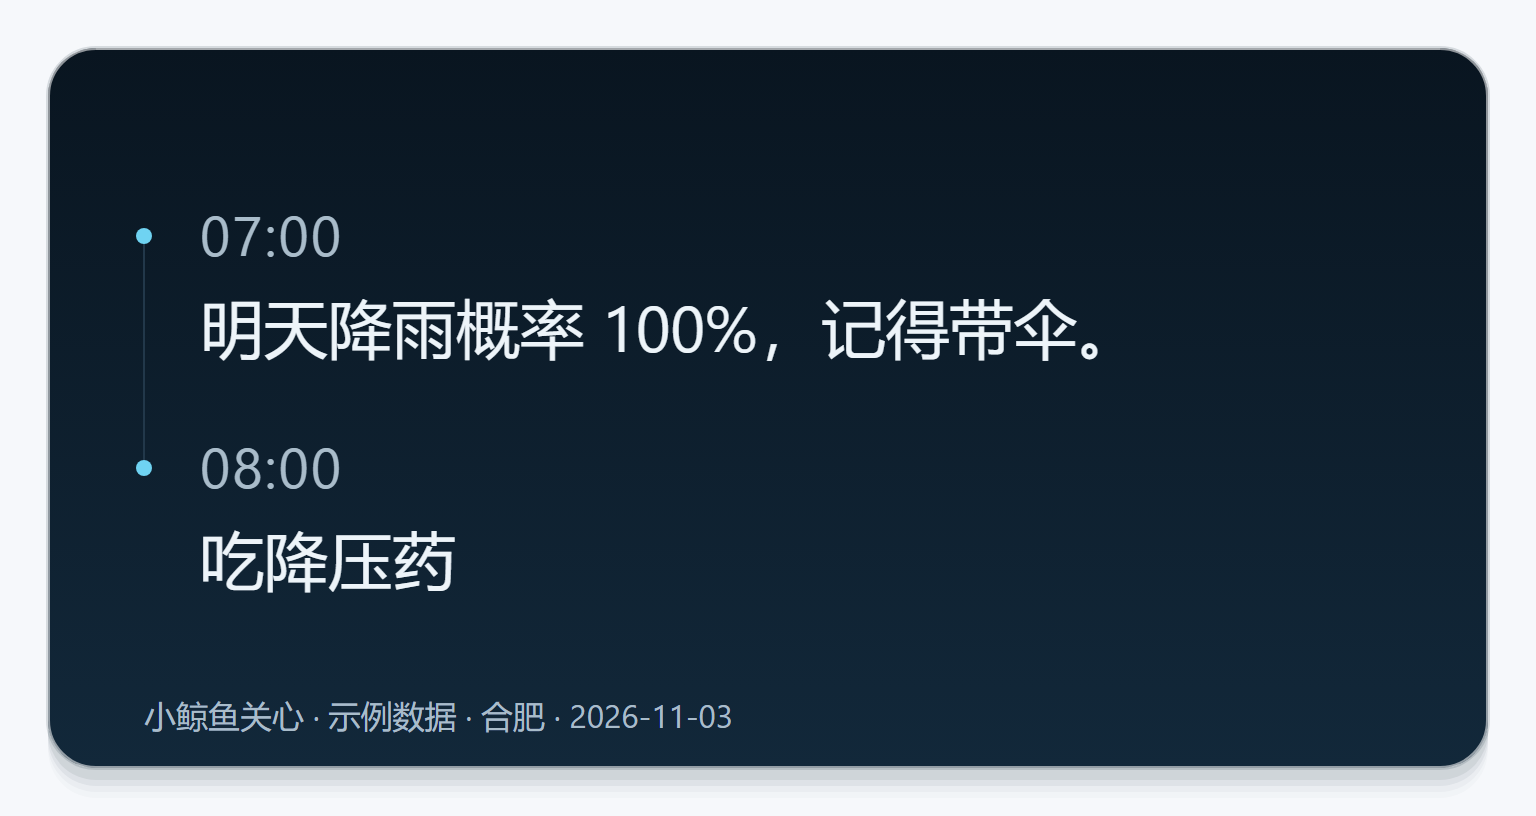
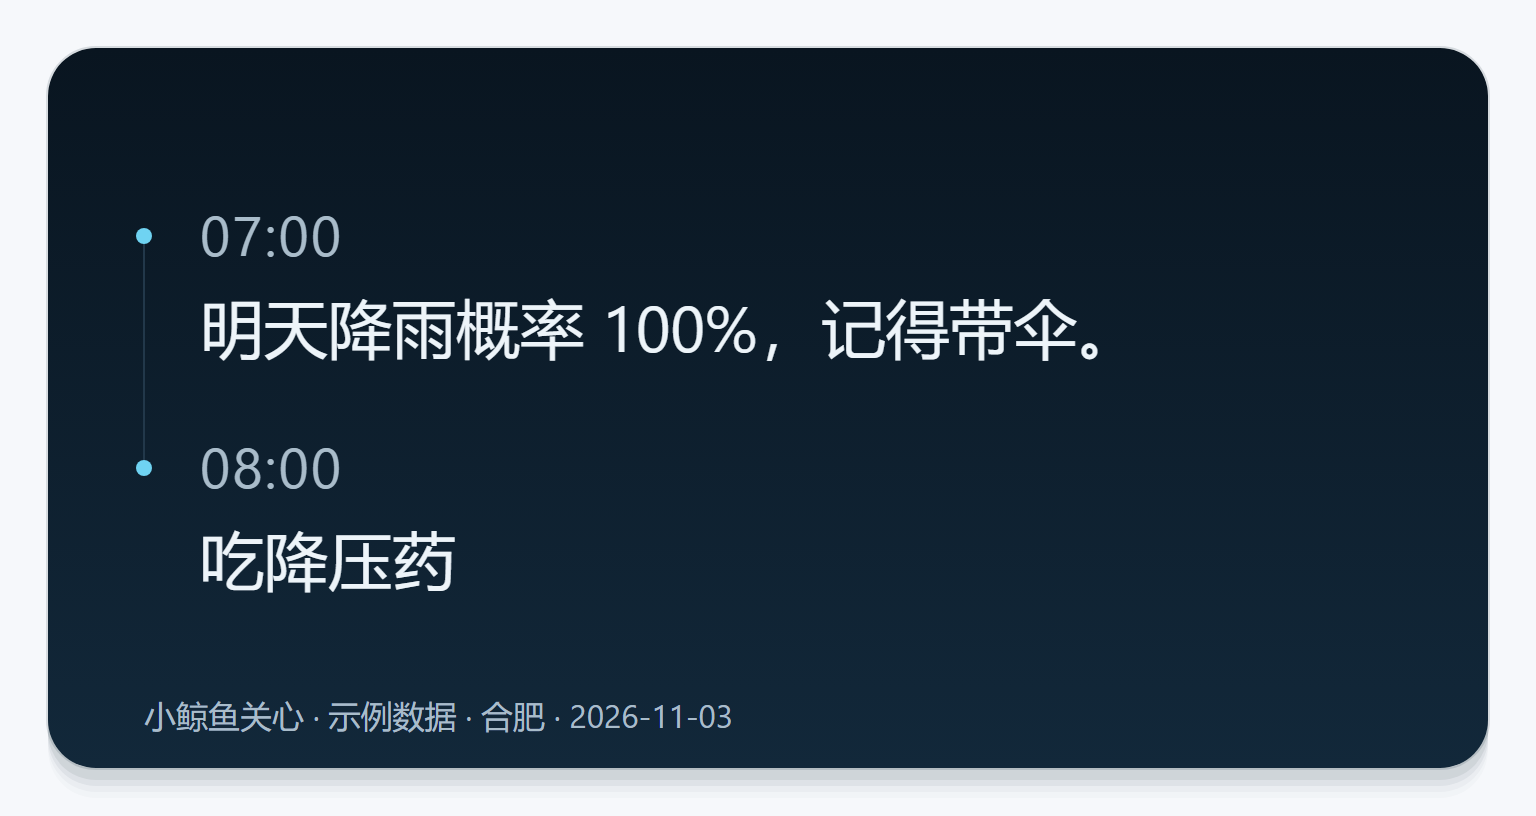
fix: 按质感规格 §14 收口（浅色卡换压暗记账 / 删框内白描边 / 深色底暗线改 #04121C）

diff --git a/lib/card.js b/lib/card.js
@@ -78,13 +78,24 @@ const isNum = (value) => value != null && Number.isFinite(Number(value));
 // ── 质感 A · 哑光纸（notes/design/2026-11-18-texture-v2.md §4）──────────
 // 表皮全部落在「内侧 1px」与低透明度均匀明度上：只有 linearGradient / radialGradient，
 // 一个 filter 都没有（§8：默认方案 0 个 filter 是本次交付最硬的一条性质）。
+// 数值见 §14.2：深色靠提亮造光，浅色靠压暗造影（白纸没法比白纸更白，白 3% 在浅底只有 Δ0.3）。
 const SKIN = {
-  topPx: 40,        // 顶部白坡的高度（这段是边距，无字）
-  topAlpha: 0.03,   // 顶部白坡顶端的白
-  toneAlpha: 0.015, // 数据带均匀明度台阶
   tonePad: 10,      // 台阶比数据带上下各多 10px
-  topRim: 0.04,     // 顶边 1px 接光
-  bottomRim: 0.06,  // 底边 1px 落影
+  topPx: 40,        // 顶部坡的高度（这段是边距，无字）
+  rimTop: 0.5,      // 顶收口：卡自己最外一行（框的外描边画在这一行之外，§14.3 一行一层）
+  rimBottom: 979.5, // 底收口：卡自己最外一行
+  dark: {
+    topAlpha: 0.03,                              // 顶部坡：白 0→3%
+    tone: { color: '#FFFFFF', alpha: 0.015 },    // 数据带：白 1.5%（提亮）
+    topRim: { color: '#FFFFFF', alpha: 0.04 },   // 顶亮线
+    bottomRim: { color: '#04121C', alpha: 1 }, // 底暗线：6% 实测 Δ2.0 = 空操作；22% 在 0.5× 下又只剩半个像素，取 #04121C
+  },
+  light: {
+    topAlpha: 0,                                 // 顶部坡：删（浅底 Δ0.3，写法是假的）
+    tone: { color: '#000000', alpha: 0.025 },    // 数据带：黑 2.5% = #F0EBE2（压暗）
+    topRim: { color: '#FFFFFF', alpha: 0.70 },   // 顶亮线 = #FCFBF8
+    bottomRim: { color: '#000000', alpha: 0.08 },// 底暗线 = #E2DED5（上限 8%）
+  },
 };
 
 const rgbOf = (hex) => [1, 3, 5].map((i) => parseInt(hex.slice(i, i + 2), 16));
@@ -341,16 +352,19 @@ export function buildWeatherCardSvg(data = {}, profile = {}, opts = {}) {
   // ── 表皮 A · 哑光纸：顶坡 / 收口 / 数据带台阶 ─────────────────────────
   // 底色渐变本来就铺满全卡，顶部 40px 的白坡折进它的 stop 里（少一层矩形、也不改几何）：
   // y=0 白 0% → y=40 白 3%，40 处硬落回底色 —— §4 的「只有顶部有坡」。
+  const skin = SKIN[theme];
   const bgFrom = rgbOf(p.bgTop);
   const bgTo = rgbOf(p.bgBottom);
   const bgAt = (y) => lerpRgb(bgFrom, bgTo, y / H);
   const slopeEdge = Number((SKIN.topPx / H).toFixed(4));
-  const bgStops = [
-    [0, hexOf(bgAt(0))],
-    [slopeEdge, hexOf(lerpRgb(bgAt(SKIN.topPx), [255, 255, 255], SKIN.topAlpha))],
-    [slopeEdge, hexOf(bgAt(SKIN.topPx))],
-    [1, hexOf(bgAt(H))],
-  ];
+  const bgStops = skin.topAlpha > 0
+    ? [
+      [0, hexOf(bgAt(0))],
+      [slopeEdge, hexOf(lerpRgb(bgAt(SKIN.topPx), [255, 255, 255], skin.topAlpha))],
+      [slopeEdge, hexOf(bgAt(SKIN.topPx))],
+      [1, hexOf(bgAt(H))],
+    ]
+    : [[0, hexOf(bgAt(0))], [1, hexOf(bgAt(H))]];
   const bgGradient = '<linearGradient id="' + theme + '-bg" x1="0" y1="0" x2="0" y2="1">'
     + bgStops.map(([offset, color]) => '<stop offset="' + offset + '" stop-color="' + color + '"/>').join('')
     + '</linearGradient>';
@@ -359,7 +373,7 @@ export function buildWeatherCardSvg(data = {}, profile = {}, opts = {}) {
   const toneTop = bandTop - SKIN.tonePad;
   const toneHeight = bandBottom - bandTop + SKIN.tonePad * 2;
   const toneLayer = '<rect x="0" y="' + toneTop + '" width="' + W + '" height="' + toneHeight
-    + '" fill="#FFFFFF" opacity="' + SKIN.toneAlpha + '"/>';
+    + '" fill="' + skin.tone.color + '" opacity="' + skin.tone.alpha + '"/>';
 
   // 数据带 3 格竖线改为竖向渐隐（两端 0 / 中间 1，§4 ③）
   const ruleFade = '<linearGradient id="' + theme + '-rule-fade" gradientUnits="userSpaceOnUse" x1="0" y1="' + bandTop
@@ -383,9 +397,12 @@ export function buildWeatherCardSvg(data = {}, profile = {}, opts = {}) {
     ? '<circle cx="' + glow.cx + '" cy="' + glow.cy + '" r="' + glow.r + '" fill="url(#' + theme + '-glow)"/>'
     : '';
 
-  // 收口：光在上 —— 顶边接光（白 4%）、底边落影（黑 6%），各 1px，画在内侧
-  const rims = '<line x1="0" y1="0.5" x2="' + W + '" y2="0.5" stroke="#FFFFFF" stroke-opacity="' + SKIN.topRim + '" stroke-width="1"/>'
-    + '<line x1="0" y1="' + (H - 0.5) + '" x2="' + W + '" y2="' + (H - 0.5) + '" stroke="#000000" stroke-opacity="' + SKIN.bottomRim + '" stroke-width="1"/>';
+  // 收口（§14.3 一行一层）：卡自己的顶亮线占第 0 行、底暗线占第 979 行，图框的外描边画在它们之外一行。
+  // 不能把外描边压到卡身上：实测 14% 深线落在 #091520 上只有 Δ1.6/255，等于隐身 —— 两条线各占一行才有「外深内亮」
+  const rims = '<line x1="0" y1="' + SKIN.rimTop + '" x2="' + W + '" y2="' + SKIN.rimTop + '" stroke="' + skin.topRim.color
+    + '" stroke-opacity="' + skin.topRim.alpha + '" stroke-width="1"/>'
+    + '<line x1="0" y1="' + SKIN.rimBottom + '" x2="' + W + '" y2="' + SKIN.rimBottom + '" stroke="' + skin.bottomRim.color
+    + '" stroke-opacity="' + skin.bottomRim.alpha + '" stroke-width="1"/>';
 
   const rangeGradient = '<linearGradient id="' + theme + '-range" gradientUnits="userSpaceOnUse" x1="48" y1="0" x2="672" y2="0">'
     + '<stop offset="0" stop-color="' + p.cool + '"/><stop offset="1" stop-color="' + p.warm + '"/></linearGradient>';
